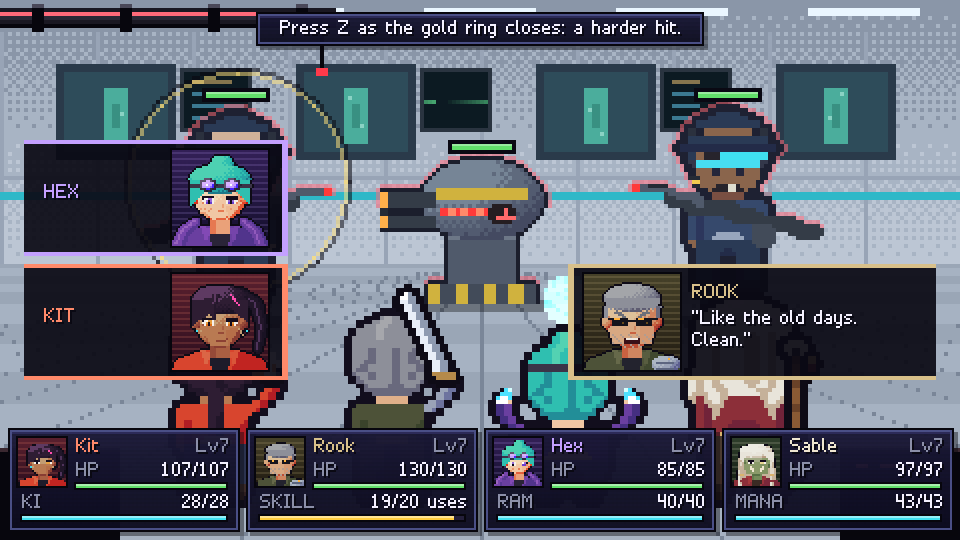
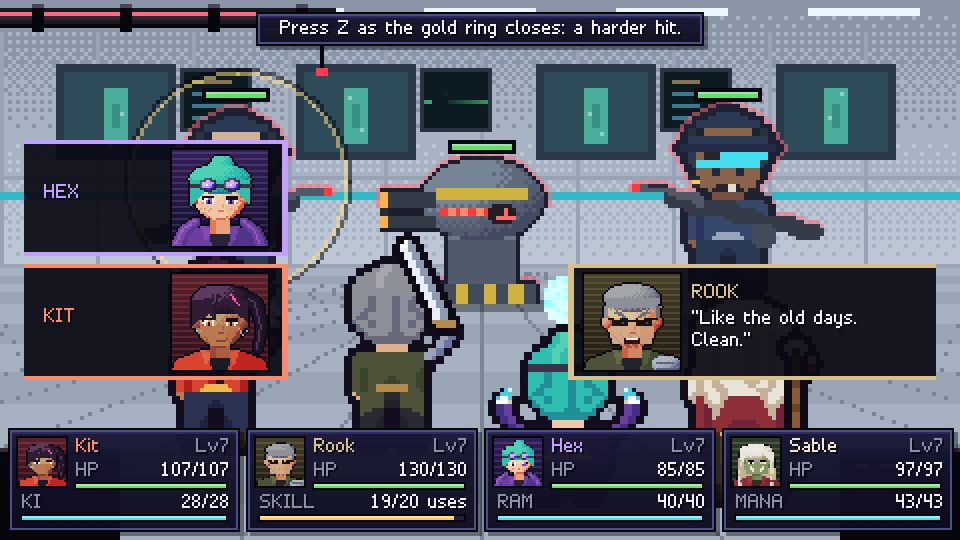
Round 11 (part 3): swings in beats, blows with a direction, big hits on the crew land hard
- Party melee plays gather (brace frame, a crouch) -> snap forward with a smear -> settle
- Screen shake is motion: a blow kicks the frame along its path and springs back; rumbles are
  smooth (engine/shake.ts, deterministic per frame)
- A big hit on the crew pushes the camera in on who took it; a crushing one flashes red
- Presses made during a hit-pause carry to the next frame instead of being lost
- Shots: 13b swing beats, 15b three-part combo

Changed region(s): [[0.3438, 0.4148, 0.5, 0.8], [0.1562, 0.6815, 0.3125, 0.9481], [0.1875, 0.4741, 0.25, 0.5037]]

diff --git a/tests/motion.test.ts b/tests/motion.test.ts
@@ -1,0 +1,70 @@
+/** How bodies and the frame move: the swing's beats, shake as motion, presses kept through a freeze. */
+import { describe, expect, it } from 'vitest';
+import { Input } from '../src/engine/input';
+import { direction, shakeOffset } from '../src/engine/shake';
+import { PARTY_POSE_T, swingBeat } from '../src/scenes/battlekit/motion';
+
+describe('the swing', () => {
+  it('gathers (crouching), snaps forward with a smear, then settles back to the line', () => {
+    const beats = Array.from({ length: PARTY_POSE_T }, (_, k) => swingBeat(k));
+    expect(beats.slice(0, 6).every((b) => b.phase === 'gather' && b.lift <= 0 && b.smear === 0)).toBe(true);
+    expect(beats[6]!.phase).toBe('strike');
+    expect(beats[6]!.lift).toBeGreaterThanOrEqual(14);
+    expect(beats[6]!.smear).toBeGreaterThan(0);
+    // The snap is the fastest move of the swing: one frame from crouch to full reach.
+    expect(beats[6]!.lift - beats[5]!.lift).toBeGreaterThan(12);
+    // It settles monotonically, and is back on the line before the pose ends.
+    for (let k = 10; k < PARTY_POSE_T; k++) expect(beats[k]!.lift).toBeLessThanOrEqual(beats[k - 1]!.lift);
+    expect(beats[PARTY_POSE_T - 1]!.lift).toBe(0);
+  });
+});
+
+describe('screen shake', () => {
+  it('a blow kicks the frame along its direction first, then springs back past centre', () => {
+    const dir = direction({ x: 0, y: 0 }, { x: 10, y: 0 });
+    const xs = Array.from({ length: 12 }, (_, t) => shakeOffset({ t, len: 12, mag: 5, dir }).x);
+    expect(xs[0]).toBe(5);
+    expect(xs.some((x) => x < 0)).toBe(true);
+    // Mostly along the blow: the cross-axis stays small.
+    for (let t = 0; t < 12; t++) expect(Math.abs(shakeOffset({ t, len: 12, mag: 5, dir }).y)).toBeLessThanOrEqual(1);
+  });
+  it('fades out and is still at its end', () => {
+    const s = { len: 10, mag: 4, dir: null };
+    expect(shakeOffset({ ...s, t: 10 })).toEqual({ x: 0, y: 0 });
+    const early = Math.max(...[0, 1, 2].map((t) => Math.abs(shakeOffset({ ...s, t }).x) + Math.abs(shakeOffset({ ...s, t }).y)));
+    const late = Math.max(...[7, 8, 9].map((t) => Math.abs(shakeOffset({ ...s, t }).x) + Math.abs(shakeOffset({ ...s, t }).y)));
+    expect(late).toBeLessThan(early);
+  });
+  it('a rumble moves smoothly: no frame-to-frame jump beyond its amplitude (plus rounding)', () => {
+    let prev = shakeOffset({ t: 0, len: 40, mag: 3, dir: null });
+    for (let t = 1; t < 40; t++) {
+      const o = shakeOffset({ t, len: 40, mag: 3, dir: null });
+      expect(Math.abs(o.x - prev.x)).toBeLessThanOrEqual(4);
+      expect(Math.abs(o.y - prev.y)).toBeLessThanOrEqual(4);
+      prev = o;
+    }
+  });
+});
+
+describe('input carried through a freeze', () => {
+  it('a press held over is seen once more on the next tick, then gone', () => {
+    const listeners: Record<string, ((e: unknown) => void)[]> = {};
+    const win = {
+      addEventListener: (type: string, fn: (e: unknown) => void) => {
+        listeners[type] ??= [];
+        listeners[type]!.push(fn);
+      },
+    };
+    const input = new Input(win as unknown as Window);
+    const key = (type: string) => { for (const fn of listeners[type] ?? []) fn({ code: 'KeyZ', key: 'z', repeat: false, preventDefault: () => undefined }); };
+    key('keydown');
+    key('keyup');
+    input.update();
+    expect(input.pressed('confirm')).toBe(true);
+    input.carry('confirm');
+    input.update();
+    expect(input.pressed('confirm')).toBe(true);
+    input.update();
+    expect(input.pressed('confirm')).toBe(false);
+  });
+});

diff --git a/src/engine/game.ts b/src/engine/game.ts
@@ -9,6 +9,7 @@
  * separately so one can't mask the other — trips `onFault`, which boot uses to abandon it and
  * return to the title.
  */
+import { shakeOffset } from './shake';
 import type { Ctx } from './canvas';
 import { reportError } from './errors';
 import type { Input } from './input';
@@ -88,6 +89,10 @@ export class Game {
   fadeColor = '#07060d';
   shakeFrames = 0;
   shakeMag = 0;
+  /** The running shake: frames into it, its length, and the blow's direction (null: a rumble). */
+  private shakeT = 0;
+  private shakeLen = 0;
+  private shakeDir: { x: number; y: number } | null = null;
   /** This frame's shake offset in screen pixels; scenes apply it to their world layer only. */
   shakeX = 0;
   shakeY = 0;
@@ -212,10 +217,19 @@ export class Game {
     return this.fadeTo(0, frames);
   }
 
-  /** Screen shake; overlapping shakes keep the stronger amplitude, a fresh one starts from its own. */
-  shake(frames = 12, mag = 3): void {
-    this.shakeMag = this.shakeFrames > 0 ? Math.max(mag, this.shakeMag) : mag;
-    this.shakeFrames = Math.max(this.shakeFrames, frames);
+  /**
+   * Screen shake. `dir` is the way the blow travelled (see engine/shake.ts): the frame kicks that
+   * way and springs back; without one it's a rumble. A stronger shake takes over from a running
+   * one (and its direction); a weaker one only extends it.
+   */
+  shake(frames = 12, mag = 3, dir?: { x: number; y: number }): void {
+    if (this.shakeFrames <= 0 || mag >= this.shakeMag) {
+      this.shakeMag = mag;
+      this.shakeT = 0;
+      this.shakeLen = frames;
+      this.shakeDir = dir ?? null;
+    } else this.shakeLen = Math.max(this.shakeLen, this.shakeT + frames);
+    this.shakeFrames = this.shakeLen - this.shakeT;
   }
 
   flash(color = '#ffffff', frames = 6): void {
@@ -267,7 +281,10 @@ export class Game {
         f.resolve();
       }
     }
-    if (this.shakeFrames > 0) this.shakeFrames--;
+    if (this.shakeFrames > 0) {
+      this.shakeFrames--;
+      this.shakeT++;
+    }
     if (this.flashFrames > 0) this.flashFrames--;
     // Scenes: top always updates; lower scenes update while the one above passes updates through.
     for (let i = this.stack.length - 1; i >= 0; i--) {
@@ -293,9 +310,9 @@ export class Game {
     // Shake is not applied here: each scene offsets its world by (shakeX, shakeY) and draws its
     // HUD still, so the numbers being read never jitter.
     if (this.shakeFrames > 0) {
-      const m = this.shakeMag * this.shakeScale() * Math.min(1, this.shakeFrames / 8);
-      this.shakeX = Math.round((Math.random() * 2 - 1) * m);
-      this.shakeY = Math.round((Math.random() * 2 - 1) * m);
+      const o = shakeOffset({ t: this.shakeT, len: this.shakeLen, mag: this.shakeMag * this.shakeScale(), dir: this.shakeDir });
+      this.shakeX = o.x;
+      this.shakeY = o.y;
     } else {
       this.shakeX = 0;
       this.shakeY = 0;

diff --git a/src/scenes/battlekit/playback.ts b/src/scenes/battlekit/playback.ts
@@ -17,6 +17,8 @@ import type { FxLayer, Pt } from '../../battle/fx';
 import type { Pose } from '../../art/battlers';
 import type { Disp, Floater } from './types';
 import { WINDOWS } from './timing';
+import { PARTY_POSE_T } from './motion';
+import { direction } from '../../engine/shake';
 import type { TimingProfile } from '../../battle/engine';
 
 /** What playback may do to the scene. */
@@ -108,8 +110,9 @@ export async function playEvent(v: PlaybackView, e: BattleEvent): Promise<void> 
       v.showBanner(e.kind === 'attack' || e.name === 'Attack' ? `${actor.name}` : `${actor.name}: ${e.name}`, color);
       if (actor.side === 'party') {
         const pose = actionPose(actor.key, e.kind, e.targets.map((t) => v.battle.unit(t)?.side), e.fx);
-        dd.lunge = pose === 'attack' || pose === 'thrust' ? 14 : 6;
-        v.setPose(actor, pose, 34);
+        // Melee poses move by their swing beats (motion.ts); the rest just rise a little.
+        dd.lunge = pose === 'attack' || pose === 'thrust' ? 0 : 6;
+        v.setPose(actor, pose, PARTY_POSE_T);
         if (e.fx === 'flash_step' || e.fx === 'rain_hits') dd.afterimage = 22;
         sfx(e.kind === 'tech' ? 'cast' : 'swing');
       } else {
@@ -185,11 +188,19 @@ export async function playEvent(v: PlaybackView, e: BattleEvent): Promise<void> 
       // Weight by share of the target's max HP: light taps barely move the camera, big hits stop time.
       const share = e.amount / u.base.maxHp;
       const tier = e.crit || share >= 0.4 ? 3 : share >= 0.2 ? 2 : share >= 0.08 ? 1 : 0;
-      if (tier) v.game.shake(4 + tier * 3, tier + 1 + (e.crit ? 1 : 0));
+      // The frame kicks the way the blow travelled, then springs back.
+      const from = v.lastActor && v.lastActor.uid !== e.target ? v.pos(v.lastActor.uid) : null;
+      if (tier) v.game.shake(6 + tier * 3, tier + 1 + (e.crit ? 1 : 0), from ? direction(from, v.pos(e.target)) : undefined);
       if (tier >= 2 && actionStops === 0) {
         actionStops++;
         // A critical or a combo landing is a different kind of moment: push in, cut to the impact.
         if (u.side === 'enemy' && (e.crit || comboAction)) v.impact(e.target, e.crit ? '#ffe07a' : '#ff9ae0');
+        // A big blow on the crew lands as hard as one of theirs: the camera pushes in on who took
+        // it, and a crushing one flashes the frame red.
+        if (u.side === 'party') {
+          v.impact(e.target, '#ff5a5a');
+          if (tier === 3) v.game.flash('#ff2a4a', 4);
+        }
         await v.hitstop(tier === 3 ? 5 : 3);
       }
       await v.w(14);

diff --git a/src/scenes/battlekit/render.ts b/src/scenes/battlekit/render.ts
@@ -8,6 +8,7 @@ import { enemyArt } from '../../art/enemies';
 import { getPortrait } from '../../art/portraits';
 import type { Combatant, Command, Element } from '../../battle/types';
 import { ABILITIES } from '../../data/abilities';
+import { PARTY_POSE_T, swingBeat } from './motion';
 import { ENEMIES, FAMILY_WEAK } from '../../data/enemies';
 import { ITEMS } from '../../data/items';
 import { MEMBERS } from '../../data/party';
@@ -291,7 +292,9 @@ export class BattleRenderer {
     const pos = this.s.partyPos(p);
     const active = (this.s.mode === 'command' || this.s.mode === 'list' || this.s.mode === 'target') && this.s.actor?.uid === p.uid;
     const down = dd.hp <= 0 && p.hp <= 0;
-    const pose: Pose = dd.poseT > 0 ? dd.pose : 'idle';
+    // Melee moves play in beats: drawn in (the brace frame), the snap forward, the settle.
+    const beat = dd.poseT > 0 && (dd.pose === 'attack' || dd.pose === 'thrust') ? swingBeat(PARTY_POSE_T - dd.poseT) : null;
+    const pose: Pose = dd.poseT > 0 ? (beat?.phase === 'gather' ? 'brace' : dd.pose) : 'idle';
     const frame = art.frames[pose];
     let ox = 0;
     if (dd.shake > 0) ox = dd.shake % 4 < 2 ? 2 : -2;
@@ -299,7 +302,8 @@ export class BattleRenderer {
     // Idle breathing: a 1px rise, staggered per member; faster and higher while choosing orders.
     const breathe = pose === 'idle' ? (Math.floor((f + p.uid * 23) / (active ? 16 : 34)) % 2) * (active ? 2 : 1) : 0;
     const x = Math.round(pos.x - frame.width / 2 + ox);
-    const y = Math.round(PARTY_BOTTOM - frame.height - dd.hop - dd.lunge - breathe + (pose === 'hurt' ? 2 : 0));
+    const lift = beat ? beat.lift : dd.lunge;
+    const y = Math.round(PARTY_BOTTOM - frame.height - dd.hop - lift - breathe + (pose === 'hurt' ? 2 : 0));
     if (down) {
       g.globalAlpha = 0.5;
       g.drawImage(silhouetteCache(art.frames.hurt, '#3a3450'), x, y + 10);
@@ -311,6 +315,15 @@ export class BattleRenderer {
       for (const [gx, gy, a] of AFTERIMAGES) {
         g.globalAlpha = a * (dd.afterimage / 22);
         g.drawImage(silhouetteCache(frame, MEMBERS[p.key as MemberId].color), x + gx, y + gy);
+      }
+      g.globalAlpha = 1;
+    }
+    if (beat && beat.smear > 0) {
+      // The snap leaves a smear: tinted copies trailing back toward the line.
+      const tint = MEMBERS[p.key as MemberId].color;
+      for (let i = beat.smear; i >= 1; i--) {
+        g.globalAlpha = 0.18 + 0.1 * (beat.smear - i);
+        g.drawImage(silhouetteCache(frame, tint), x, y + i * 4);
       }
       g.globalAlpha = 1;
     }

diff --git a/src/engine/shake.ts b/src/engine/shake.ts
@@ -1,0 +1,41 @@
+/**
+ * Screen shake as motion, not noise. A blow with a direction kicks the frame that way and springs
+ * back past centre a few times, fading; a rumble with no direction (a quake, a lift shuddering)
+ * wanders smoothly on both axes. Both are functions of the frame, so the same shake plays the
+ * same way every time.
+ */
+
+export interface ShakeState {
+  /** Frames since this shake began, and its total length. */
+  t: number;
+  len: number;
+  /** Peak amplitude, screen pixels (already scaled by the player's setting). */
+  mag: number;
+  /** Unit direction of the kick, or null for a rumble. */
+  dir: { x: number; y: number } | null;
+}
+
+/** This frame's offset, whole pixels. */
+export function shakeOffset(s: ShakeState): { x: number; y: number } {
+  if (s.t >= s.len || s.mag <= 0) return { x: 0, y: 0 };
+  // Falls away quadratically: most of the energy is in the first few frames.
+  const a = s.mag * (1 - s.t / s.len) ** 2;
+  if (s.dir) {
+    // Snap along the blow (cos: full kick on frame 0), spring back, with a little cross-wobble.
+    const along = a * Math.cos(s.t * 1.25);
+    const across = a * 0.2 * Math.sin(s.t * 2.1);
+    return { x: Math.round(s.dir.x * along - s.dir.y * across), y: Math.round(s.dir.y * along + s.dir.x * across) };
+  }
+  // Slow enough to read as the ground moving (about 8 Hz), never a per-frame buzz.
+  return {
+    x: Math.round(a * (0.65 * Math.sin(s.t * 0.8) + 0.35 * Math.sin(s.t * 1.3 + 1.3))),
+    y: Math.round(a * (0.65 * Math.sin(s.t * 0.95 + 2.1) + 0.35 * Math.sin(s.t * 1.45 + 0.4))),
+  };
+}
+
+/** A unit vector from `from` toward `to` (straight down if they coincide). */
+export function direction(from: { x: number; y: number }, to: { x: number; y: number }): { x: number; y: number } {
+  const dx = to.x - from.x, dy = to.y - from.y;
+  const d = Math.hypot(dx, dy);
+  return d < 0.01 ? { x: 0, y: 1 } : { x: dx / d, y: dy / d };
+}

diff --git a/src/scenes/battlekit/motion.ts b/src/scenes/battlekit/motion.ts
@@ -1,0 +1,27 @@
+/**
+ * How the crew's bodies move through an action, frame by frame. Pure: the renderer asks what beat
+ * a pose is on and draws it.
+ */
+
+/** Frames a party action pose lasts (the playback sets it; the swing's beats are keyed to it). */
+export const PARTY_POSE_T = 34;
+
+export interface SwingBeat {
+  /** gather: drawn in, crouching; strike: the snap forward; settle: easing back to the line. */
+  phase: 'gather' | 'strike' | 'settle';
+  /** Battle pixels up the screen, toward the enemy (negative: a crouch). */
+  lift: number;
+  /** Speed-smear copies to trail behind the body (0: none). */
+  smear: number;
+}
+
+/**
+ * A melee swing in three beats, `k` frames into the pose: six frames gathering (the brace frame,
+ * sinking a little), a snap forward on the strike frame with a smear behind it, then a settle
+ * back down to the line. The hit's effects start at frame 8, just after the snap lands.
+ */
+export function swingBeat(k: number): SwingBeat {
+  if (k < 6) return { phase: 'gather', lift: -Math.min(3, Math.floor(k / 2)), smear: 0 };
+  if (k < 9) return { phase: 'strike', lift: 16 - (k - 6), smear: 9 - k };
+  return { phase: 'settle', lift: Math.max(0, Math.round(14 - (k - 9) * 0.7)), smear: 0 };
+}

diff --git a/src/engine/input.ts b/src/engine/input.ts
@@ -50,6 +50,8 @@ export class Input {
   private justDown = new Set<Action>();
   /** Keyboard presses between ticks (so a very quick tap is never lost). */
   private tapped = new Set<Action>();
+  /** Presses held over to the next tick (a scene frozen for a frame shouldn't eat them). */
+  private carried = new Set<Action>();
   lastDevice: InputDevice = 'keyboard';
   /** Effective key map: the defaults, with the player's custom keys applied. */
   private map: Record<string, Action> = { ...KEYMAP };
@@ -177,6 +179,13 @@ export class Input {
     // A tap that was released before this tick still counts as held for exactly one tick.
     this.tapped.clear();
     for (const a of this.justDown) if (!this.keys.has(a) && !this.padHeld.has(a) && !this.touchHeld.has(a)) this.prev.delete(a);
+    for (const a of this.carried) this.justDown.add(a);
+    this.carried.clear();
+  }
+
+  /** Hold this tick's press of `a` over to the next tick, as a fresh press. */
+  carry(a: Action): void {
+    if (this.justDown.has(a)) this.carried.add(a);
   }
 
   /** Clear typed buffer — call after scenes have consumed it. */

diff --git a/e2e/shots.spec.ts b/e2e/shots.spec.ts
@@ -137,6 +137,20 @@ test('13 battle action', async ({ page }) => {
   await shot(page, '13-battle-action');
 });
 
+test('13b the swing, beat by beat', async ({ page }) => {
+  await open(page, 'town');
+  await sj(page, "sj.battle('street', 'street')");
+  await page.waitForTimeout(3200);
+  // Freeze the simulation (rendering carries on), then pose Rook on each beat of a swing.
+  await sj(page, '(sj.__tick = sj.game.tick, sj.game.tick = () => undefined, true)');
+  for (const [k, name] of [[3, 'gather'], [7, 'snap'], [14, 'settle']] as const) {
+    await sj(page, `(() => { const s = sj.game.top, r = s.battle.party.find((u) => u.key === 'rook'); const d = s.d(r.uid); d.pose = 'attack'; d.poseT = 34 - ${k}; return true; })()`);
+    await page.waitForTimeout(120);
+    await shot(page, `13b-swing-${name}`);
+  }
+  await sj(page, '(sj.game.tick = sj.__tick, true)');
+});
+
 test('14 combo hint', async ({ page }) => {
   await open(page, 'annex');
   await sj(page, "sj.battle('f_annex_door', 'lab')");

diff --git a/src/scenes/battle.ts b/src/scenes/battle.ts
@@ -356,8 +356,14 @@ export class BattleScene extends Scene<'win' | 'lose' | 'run'> {
     }
     if (this.impactT > 0) this.impactT--;
     if (this.hitstop > 0) {
-      // Freeze-frame on heavy hits: everything holds, the event script waits it out.
+      // Freeze-frame on heavy hits: everything holds, the event script waits it out. A press
+      // made during the freeze isn't lost: it carries to the first frame after (unless a ring is
+      // armed: that press was judged above, or belongs to a ring that hasn't opened).
       this.hitstop--;
+      if (!this.timing.armed) {
+        this.game.input.carry('confirm');
+        this.game.input.carry('cancel');
+      }
       return;
     }
     this.fx.update();
